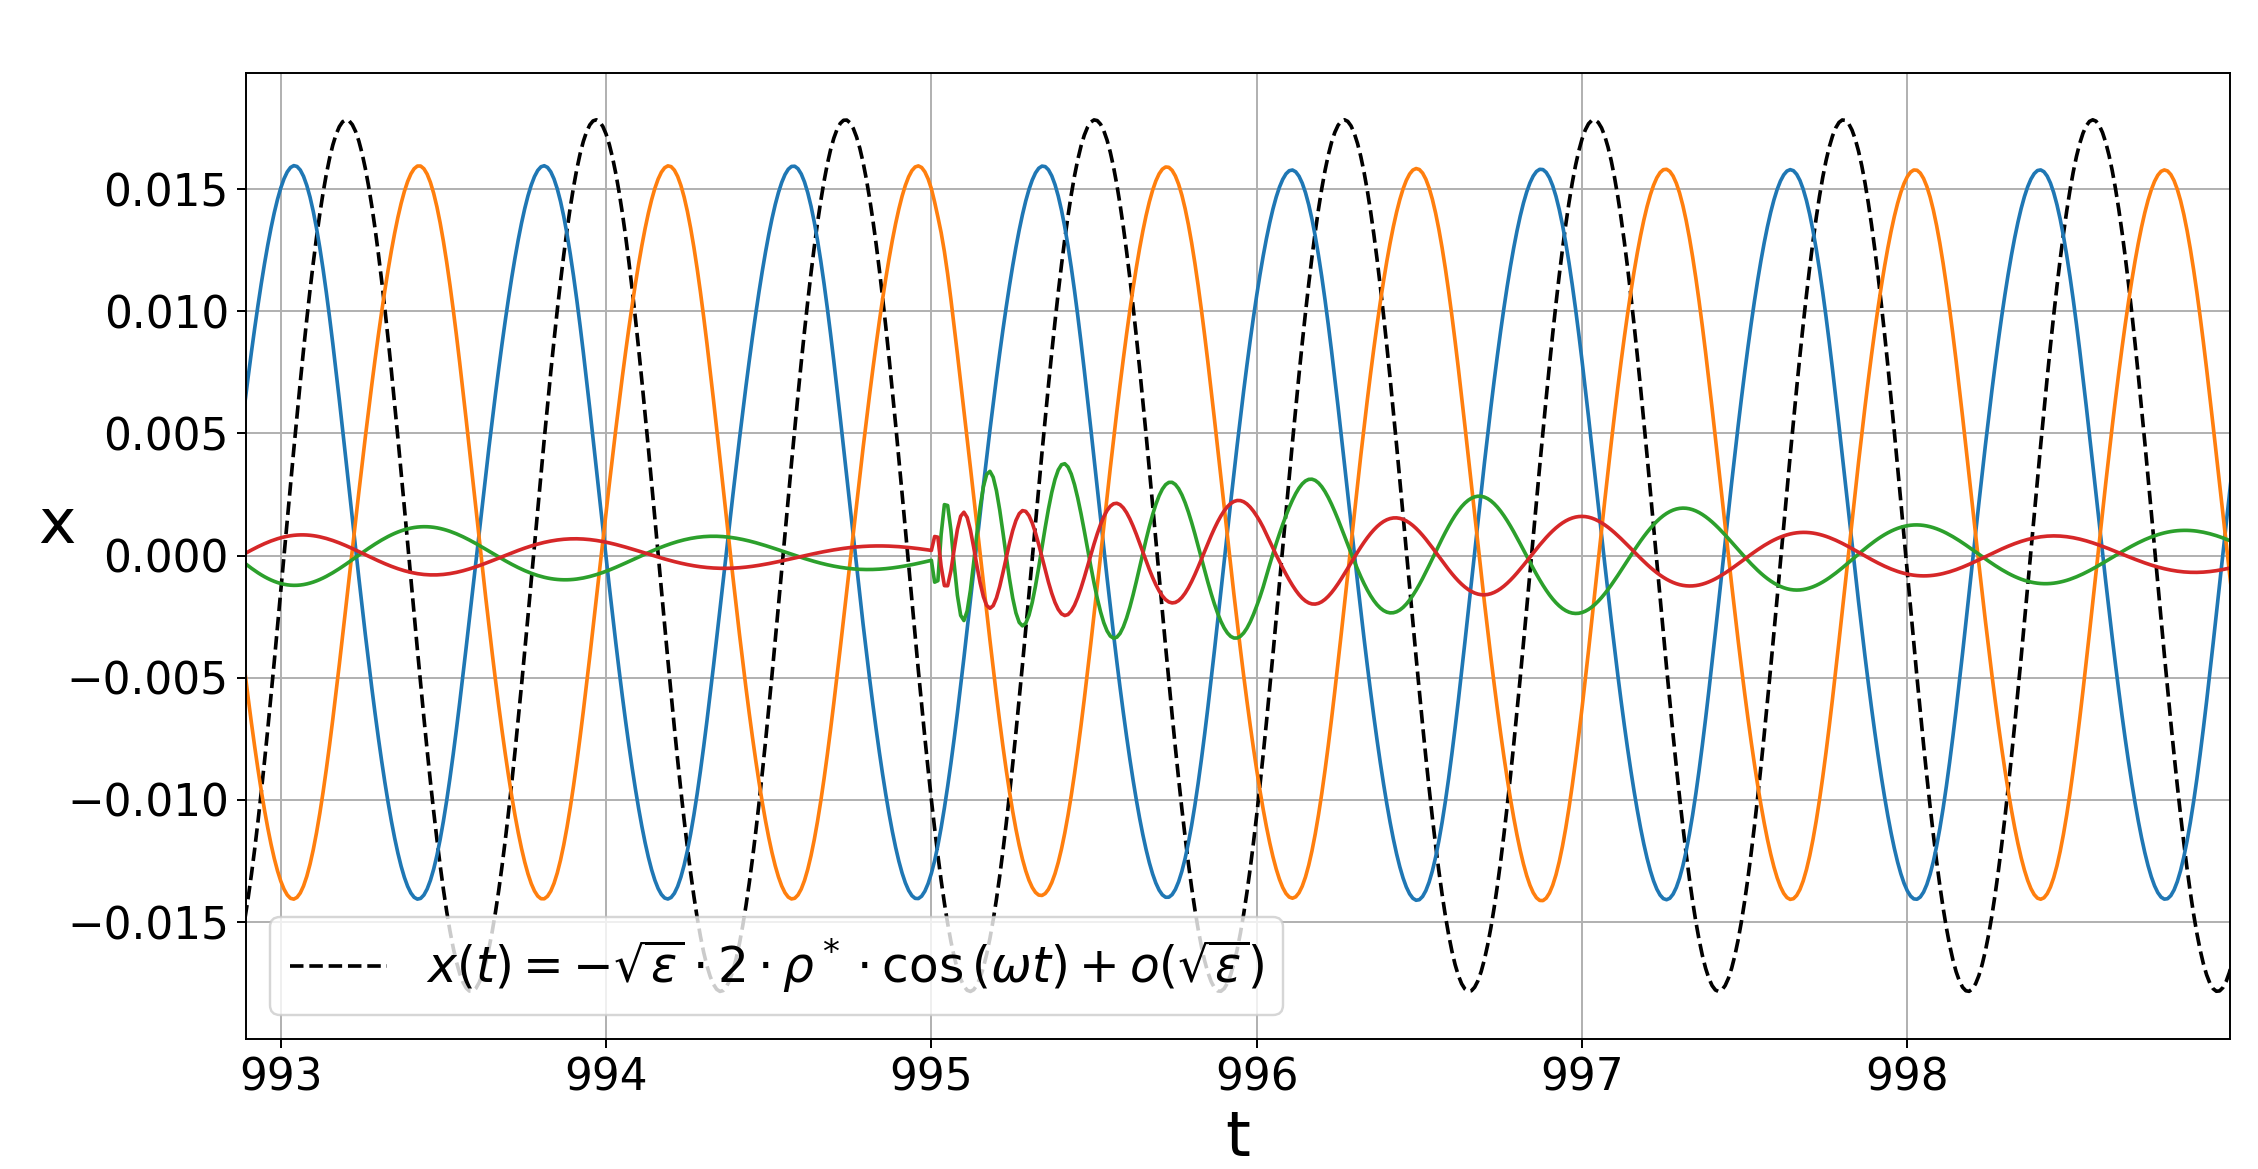
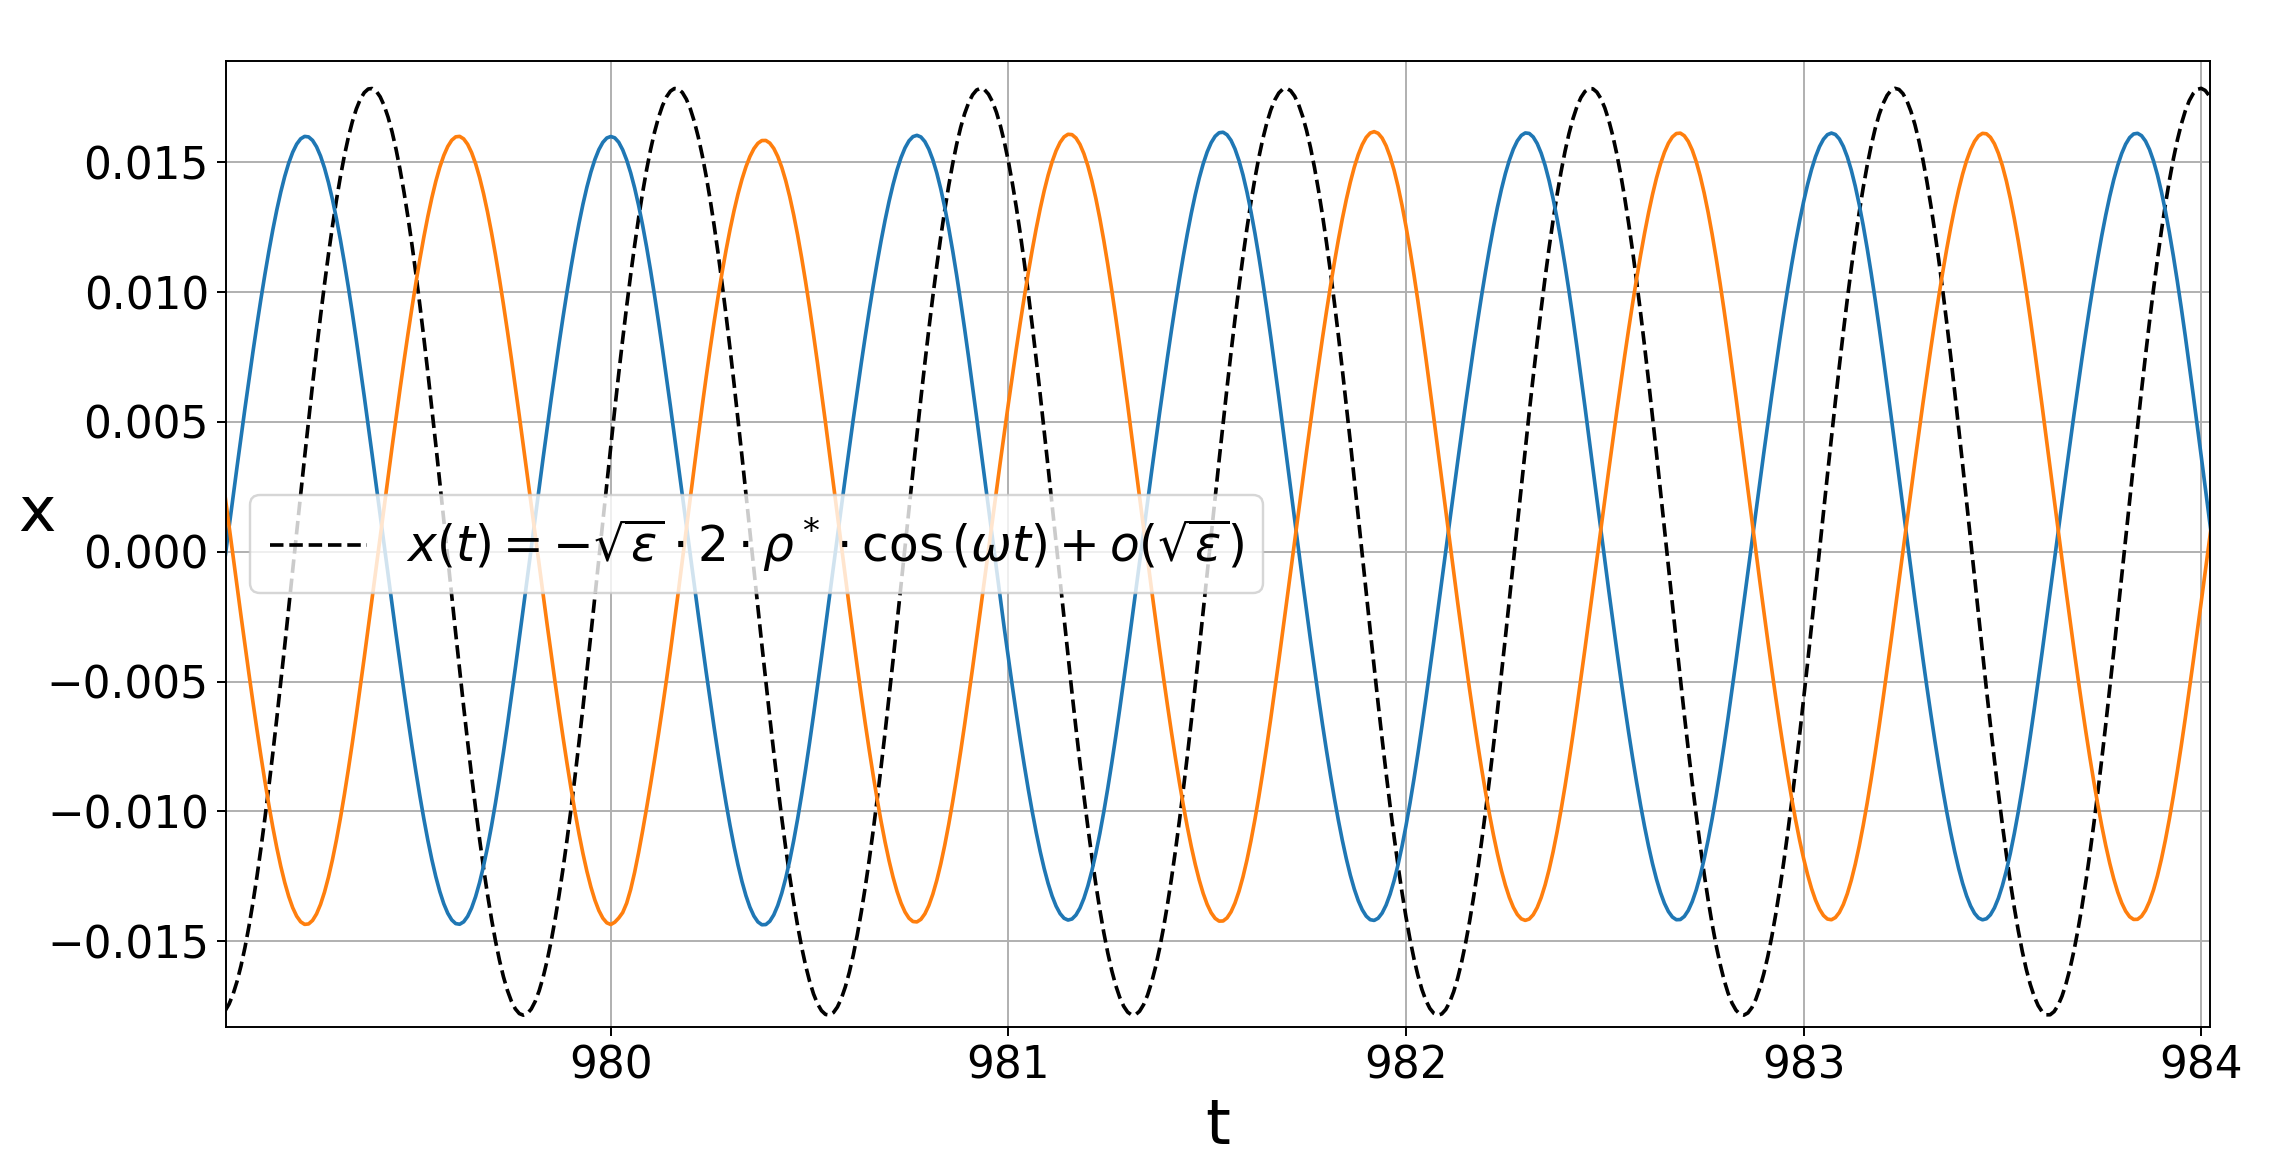
fix: diploma minor.py

diff --git a/Diploma/python/scr/main/minor.py b/Diploma/python/scr/main/minor.py
@@ -77,9 +77,7 @@ if __name__ == '__main__':
     # noinspection PyShadowingNames
     initial_conditions = [
         lambda t: np.sqrt(eps) * 2 * rho * np.cos(omega * t),
-        lambda t: -np.sqrt(eps) * 2 * rho * np.cos(omega * t),
-        lambda t: -0.05,
-        lambda t: 0.05
+        lambda t: -np.sqrt(eps) * 2 * rho * np.cos(omega * t)
     ]
 
     # Параметры интегрирования
@@ -106,8 +104,6 @@ if __name__ == '__main__':
                     dx[i] = -omega * np.sqrt(eps) * 2 * rho * np.sin(omega * t[i])
                 elif ic_idx == 1:
                     dx[i] = omega * np.sqrt(eps) * 2 * rho * np.sin(omega * t[i])
-                else:  # Константы
-                    dx[i] = 0
 
         # Интегрирование методом Рунге-Кутты 4-го порядка
         for i in range(N_T, total_points - 1):
